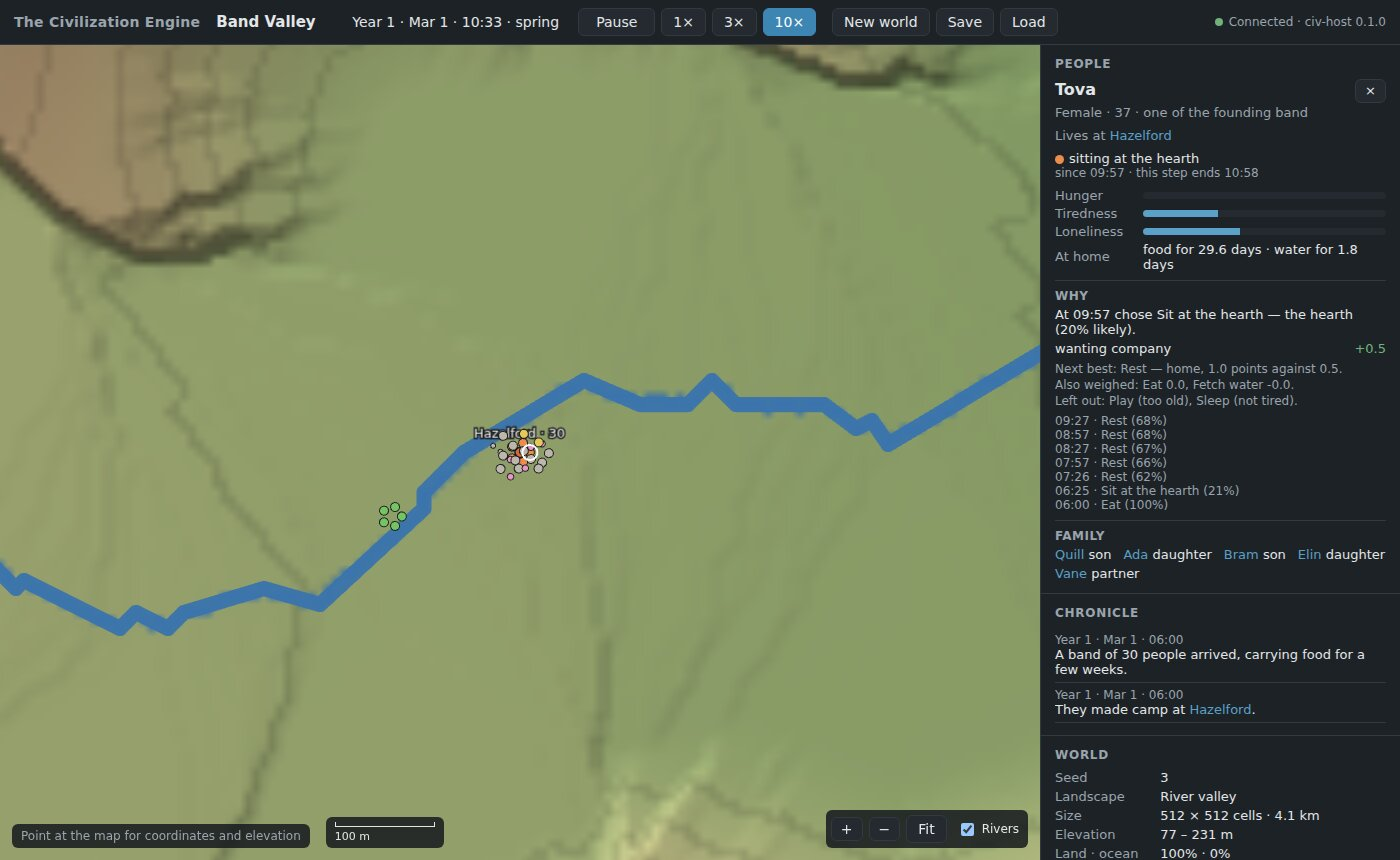
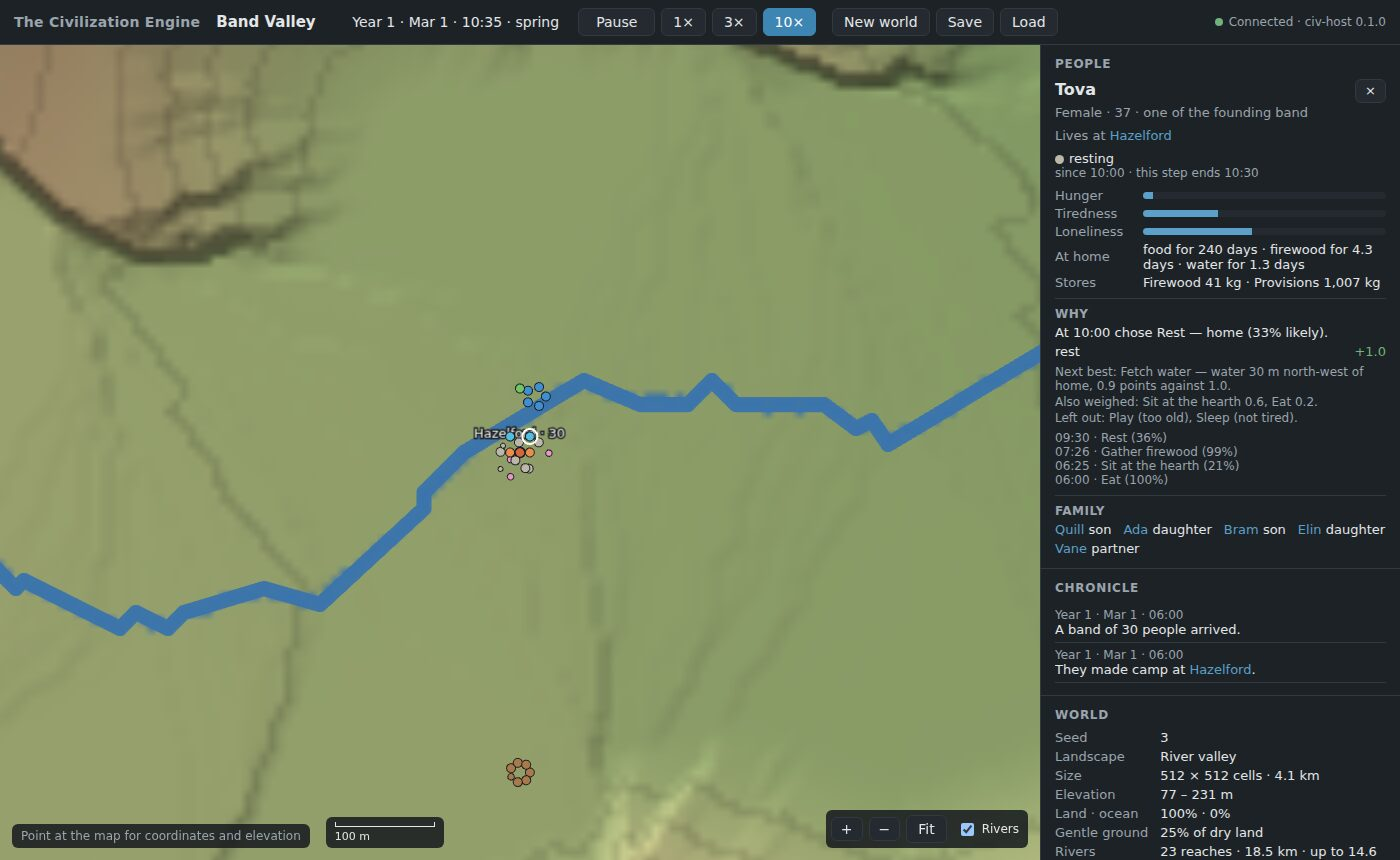
Docs: M1 slice B status, goods and land formats, decisions
- README: slice B in the status, the implemented-and-planned table and
  the limitations (food before farming, no preserving, speed); a new
  inspector screenshot.
- content/README: the `good` kind, the new land resource format with
  plant and animal growth, the new people fields, references to goods.
- Plan §9: goods, wild resources, what people know of places, the
  diminishing value of stores, founding provisions, wire 1.2 and save
  schema 3.

Claude-Session: https://claude.ai/code/session_018V4o69aAxGLDwKk8BHEDch

diff --git a/README.md b/README.md
@@ -23,9 +23,12 @@ The guiding principle is **the engine authors the vocabulary, never the plot**. 
 
 **Milestone M0, Foundations, is implemented.** You can launch the engine with one command and create a world from a seed in the browser. You can pan and zoom its terrain and rivers, and run the clock. Saving, loading, autosave and crash recovery all work, along with a small command line for worlds, saves and content.
 
-**Milestone M1, First settlers, is in progress** ([plan §7](PROJECT_PLAN.md#7-milestones)). Its first slice is implemented: a new world begins with a founding band of 30–50 people in at least six families, who choose where to camp. They sleep, eat, fetch water, gather wild plants, play and sit at the hearth, each choice scored from their needs and sampled, and they walk routed paths over the terrain. The map shows them moving. Click anyone to see what they are doing, their needs, their family and **why** they chose it, with every consideration's weight. The chronicle records the band's arrival.
+**Milestone M1, First settlers, is in progress** ([plan §7](PROJECT_PLAN.md#7-milestones)). Its first two slices are implemented:
 
-**Not yet:** hunting, fishing, wood, fields and grain, huts, births and deaths, marriage, trails and the god tools. These are the remaining M1 slices. Until fishing, hunting and farming exist, a band eats its 30 days of provisions and then cannot gather enough wild plants to feed itself (see the known limitations).
+- **Slice A:** a new world begins with a founding band of 30–50 people in at least six families, who choose where to camp. They sleep, eat, fetch water, play and sit at the hearth, each choice scored from their needs and sampled, and they walk routed paths over the terrain. The map shows them moving. Click anyone to see what they are doing, their needs, their family and **why** they chose it, with every consideration's weight. The chronicle records the band's arrival.
+- **Slice B:** people gather wild plants, hunt, fish and collect firewood, and bring home goods that keep or spoil at their own rates. A kill is shared across the camp. Meat and fish need a fire, so firewood matters. Game, fish and plants grow back on their own clocks. Hunting a valley out takes a season and its recovery takes years. Households share what they learn about places and weigh it against what they would expect. The chronicle notes when a settlement's food runs short and when it recovers.
+
+**Not yet:** fields and grain, huts, births and deaths, marriage, trails and the god tools. These are the remaining M1 slices. Until farming exists, a band's eight months of provisions and its foraging carry it into the first winter, and then it goes hungry (see the known limitations).
 
 ### Implemented and planned
 
@@ -33,13 +36,13 @@ The guiding principle is **the engine authors the vocabulary, never the plot**. 
 | --- | --- | --- |
 | Kernel foundations (`civ-core`) | Implemented | Generational handles and permanent ids, a 365-day calendar, the event-and-cadence scheduler, small seeded RNGs |
 | World generation (`civ-world`) | Implemented: terrain and water | Uplift and stream-power erosion, refinement to 8 m cells, valley floors, lakes from the water balance, river reaches with discharge and width. Climate bands, soils and deposits are planned (M1–M3) |
-| Content (`civ-content`, `content/`) | Implemented: world presets, people, land, names, activities | Strict TOML packs, stable diagnostics, fingerprints; two landscape presets; the early-farmers people profile, the temperate-valley land profile, seven activities. Other primitives arrive with the milestones that need them |
-| Land (`civ-land`) | Implemented: habitats and wild plants | 128 m habitat patches classified from terrain, wild plant stocks that grow, waste and are gathered (no respawn timers), a yearly climate factor, settlements. Game, fish, wood and fields are planned (M1) |
-| People (`civ-agents`) | Implemented: M1 slice A | A founding band in families with ages from a life table; needs in closed form (energy, sleep pressure, company); utility choices with softmax sampling and recorded receipts; routed walking (Tobler's hiking function, A*); households with food and water stores; person records and the chronicle ([ADR-0003](decisions/0003-people-movement-history.md)). Births, deaths, marriage and memory are planned (M1) |
-| Boundary schema (`commons-wire`, `civ-schema`) | Implemented | Frame envelope and FlatBuffers payloads for Rust and TypeScript ([ADR-0001](decisions/0001-boundary-schema.md)) |
-| Saves (`commons-persist`, `civ-sim`) | Implemented | Chunked, checksummed generations; verified on write; refusal, never repair ([ADR-0002](decisions/0002-snapshot-container.md)). Schema 2 adds land and people; M0 saves load as worlds with nobody in them yet |
+| Content (`civ-content`, `content/`) | Implemented: world presets, people, land, names, activities, goods | Strict TOML packs, stable diagnostics, fingerprints; two landscape presets; the early-farmers people profile, the temperate-valley land profile, ten activities, five goods. Other primitives arrive with the milestones that need them |
+| Land (`civ-land`) | Implemented: habitats, wild plants, game, fish, fallen wood | 128 m habitat patches classified from terrain. Plant-like stocks grow seasonally and waste; animals grow logistically toward their habitat's capacity and spread monthly; hunts take whole animals. Gathering slows as a patch empties (no respawn timers). A yearly climate factor, settlements. Fields are planned (M1) |
+| People (`civ-agents`) | Implemented: M1 slices A and B | A founding band in families with ages from a life table; needs in closed form (energy, sleep pressure, company) with a body reserve; utility choices with softmax sampling and recorded receipts; routed walking (Tobler's hiking function, A*). Households keep goods that spoil by half-life, burn firewood by season, eat the most perishable food first and share kills; they remember what places gave and share it within the settlement ([ADR-0003](decisions/0003-people-movement-history.md)). Person records and the chronicle. Births, deaths and marriage are planned (M1) |
+| Boundary schema (`commons-wire`, `civ-schema`) | Implemented | Frame envelope and FlatBuffers payloads for Rust and TypeScript, schema TCE 1.2 ([ADR-0001](decisions/0001-boundary-schema.md)) |
+| Saves (`commons-persist`, `civ-sim`) | Implemented | Chunked, checksummed generations; verified on write; refusal, never repair ([ADR-0002](decisions/0002-snapshot-container.md)). Schema 2 added land and people, schema 3 goods. M0 saves load as worlds with nobody in them yet; slice A saves load with their food as provisions |
 | Host (`civ-host`) | Implemented | Command line and a localhost WebSocket server with autosave and crash recovery |
-| Web observer (`web/`) | Implemented: M0 shell and M1 slice A | Map with terrain, rivers and detail tiles; people moving along their trips; the settlement; an inspector with needs, family and the reasons for each choice; the chronicle; new-world (with band size), save, load and recovery dialogs; time controls; world facts; event log |
+| Web observer (`web/`) | Implemented: M0 shell and M1 slices A and B | Map with terrain, rivers and detail tiles; people moving along their trips; the settlement with its days of food; an inspector with needs, family, the household's stores and the reasons for each choice; the chronicle; new-world (with band size), save, load and recovery dialogs; time controls; world facts; event log |
 | CI | Implemented | A Windows lane (kernel, commons, content, smoke seeds) plus browser tests and schema freshness |
 | Farming, huts, demography, trails, economy, government, services, diplomacy | Planned (M1–M8) | See the [milestones](PROJECT_PLAN.md#7-milestones) |
 | Unreal client (`civ-ffi`, `EngineBridge`) | Planned (M2) | |
@@ -51,8 +54,9 @@ The guiding principle is **the engine authors the vocabulary, never the plot**. 
 - **Small maps.** The large river can miss a small map, and at 2 km and 4 km the coastal preset can be mostly sea. The smoke seeds use 8 km maps.
 - **Performance.** A 16 km world takes about 18 s to generate on a 4-core 2.1 GHz cloud CPU, and its save is about 15 MB. Your machine will differ.
 - **WebGL.** The map needs WebGL. Headless browsers fall back to slow software rendering.
-- **Food (M1 slice A).** Wild plants alone cannot feed a band. A world's whole standing stock in March is about 17 days of a 40-person band's needs. After its 30 days of provisions, the band goes hungry: people gather harder, but nobody dies and body reserves are not yet limited. Hunting, fishing and grain are the next slices.
-- **Simulation speed.** A simulated year of a 40-person band takes about a minute on the 4-core cloud CPU. Most of that is route planning, and a cache keeps it bounded.
+- **Food before farming.** Wild food on a valley map feeds only about a dozen foragers (research 03-06 §2.7), not a settled band of 40. Gathering returns stay in the research ranges (plants about 300–900 kcal per hour in season, fish 200–800, hunting 250–500) until the land near the camp is worked out. The band arrives with eight months of provisions (research 10-01 §2.3), and foraging stretches them into the first winter. After that the band goes hungry: nobody dies yet, and body reserves bottom out at a floor. Farming, in the next slices, is what feeds early farmers.
+- **No preserving.** Fresh meat, fish and plant food spoil within days, and there is no drying or smoking yet, so a summer glut cannot be stored for winter.
+- **Simulation speed.** A simulated year of a 40-person band takes about 30–40 s on the 4-core cloud CPU, and longer when hungry people make more trips. Most of that is route planning, and a cache keeps it bounded.
 
 ## Getting started
 
@@ -86,7 +90,7 @@ Tests, lints and the rules for changing schemas, saves and content are in [AGENT
 
 **These are screenshots of the current build**, unlike the concept art further down.
 
-<p><img src="assets/m1/m1-inspector.jpg" alt="A founding band at their camp by a river; one person is inspected: what she is doing, her needs, the reasons for her last choice, her family, and the chronicle"><br><strong>M1 slice A: a band of 30 at Hazelford, seed 3.</strong> Dots are people coloured by activity; a gathering party walks out along the river. The inspector shows the last decision's considerations, the next-best option and what was ruled out.</p>
+<p><img src="assets/m1/m1-inspector.jpg" alt="A founding band at their camp by a river; one person is inspected: what she is doing, her needs, her household's food, firewood, water and stores, the reasons for her last choice, her family, and the chronicle"><br><strong>M1 slices A and B: a band of 30 at Hazelford, seed 3.</strong> Dots are people coloured by activity; a firewood party works south of the camp. The inspector shows the household's days of food, firewood and water and what is in store, then the last decision's considerations, the next-best option and what was ruled out.</p>
 
 The M0 screenshots below show the terrain alone. Recordings of the end-to-end tests are in [`assets/m0/m0-demo.webm`](assets/m0/m0-demo.webm), which generates, explores, saves and loads a world, and [`assets/m0/m0-recovery.webm`](assets/m0/m0-recovery.webm), which recovers after the host is killed.
 

diff --git a/content/README.md b/content/README.md
@@ -38,7 +38,7 @@ CI runs the validator. Diagnostics have stable codes:
 | E2003 | An id's kind segment does not match the file's `kind` |
 | E2004 | The file's path does not match its id |
 | E2005 | Two definitions share an id |
-| E2006 | A reference names something that is not defined (a people profile's name list, an activity's land resource) |
+| E2006 | A reference names something that is not defined (a people profile's name list or provisions good, an activity's land resource, a resource's good) |
 | E3001 | A value is out of its allowed range |
 | E3002 | Unknown or missing `kind` |
 | E3003 | Not exactly one world-generation preset has `default = true` |
@@ -50,8 +50,10 @@ record the semantic one, so reformatting a file, reordering keys, writing `3` fo
 comment does not mark saves as "content changed"; changing a value does.
 
 A world saved with other content still loads and runs by the content loaded now. Saves refer to
-activities, habitats and land resources by id: a person whose activity is gone decides again, a
-habitat that is gone becomes the last (catch-all) habitat, and a new resource starts at equilibrium.
+activities, habitats, land resources and goods by id: a person whose activity is gone decides
+again, a habitat that is gone becomes the last (catch-all) habitat, a good that is gone is dropped
+from stores and loads, and a new resource starts at equilibrium. So does a resource whose `good` or
+`unit_kg` changed, since its saved stocks may count something else.
 
 ## Kinds (M0)
 
@@ -103,7 +105,7 @@ are not calibrations. An arid closed-basin preset is planned for M3, once climat
 
 ## Kinds (M1)
 
-M1 adds four kinds (kernel content API 2). Every field is required, and every number in the
+M1 adds five kinds (kernel content API 3). Every field is required, and every number in the
 shipped files carries its research source or says it is a tuning starting point.
 
 ### `people`
@@ -120,17 +122,21 @@ How a world's people live. Exactly one profile. `names` is the id of a name list
 | | `mass_by_age` | `[[age, male kg, female kg], …]`. |
 | | `walk_par`, `idle_par` | Physical activity ratios while walking and between activities. |
 | | `satiety_hours`, `hunger_ramp_hours`, `deficit_unit_kcal`, `max_surplus_kcal`, `meal_minutes` | How long a meal keeps someone full, how hunger rises after, how an energy deficit adds to hunger, the largest banked surplus, a meal's length. |
+| | `reserve_kcal_per_kg` | What the body can draw on in a shortage, per kilogram of body mass: the floor of the energy balance. |
 | `sleep` | `tau_awake_h`, `tau_asleep_h`, `wake_pressure` | Two-process sleep pressure: rise awake, fall asleep, the level a sleeper wakes at. Sleep is not an option below it. |
 | | `min_hours`, `max_hours`, `nap_min_minutes`, `nap_max_minutes` | A night's sleep and a daytime nap. |
 | | `day_factor`, `bedtime_after_sunset_hours` | Weight of sleep pressure by day, and when the evening's sleep gate opens. |
 | `social` | `tau_h`, `quality_per_companion`, `household_quality` | Relatedness eases toward the quality of present company. |
 | `household` | `water_l_per_person_day`, `carry_water_l`, `water_target_days` | Water use, what one trip carries, the store people aim for. |
-| | `food_target_days`, `carry_food_kcal`, `daily_kcal_per_person` | The food store people aim for, what one person carries home, average need. |
+| | `food_target_days`, `carry_kg`, `daily_kcal_per_person` | The food store people aim for, the load one person carries home, average need. |
+| | `fuel_kg_per_person_day`, `fuel_target_days` | Firewood burned per person per day by month (January first), and the store people aim for. |
+| | `short_food_days`, `recovered_food_days` | The chronicle notes a settlement's shortage below the first and its end above the second. |
 | `decision` | `temperature_sd_fraction`, `min_temperature` | Softmax temperature: a fraction of the spread of the options' scores, with a floor. |
-| | `w_*`, `trip_half_worth_days` | Points per unit of each consideration (hunger, sleep, company, food and water shortage, useful work, walking, effort, darkness, rest, play); a gathering trip bringing `trip_half_worth_days` of household food is worth half a very large haul. |
+| | `w_*`, `trip_half_worth_days` | Points per unit of each consideration (hunger, sleep, company, food, firewood and water shortage, useful work, walking, effort, darkness, rest, play); a trip bringing `trip_half_worth_days` of the household's need is worth half a very large haul. Beyond any shortage, more of a good is worth less the more of it is in store. |
 | `band` | `default_size`, `min_size`, `max_size`, `min_families` | The founding band the new-world dialog offers. `min_size` is at least twice `min_families`. |
 | | `camp_candidates`, `site_radius_m`, `site_max_slope`, `site_w_*`, `site_flood_hand_m` | How the band scores sampled camp sites: wild food within the radius, distance to fresh water, slope, flood risk. |
-| | `provisions_days`, `elder_chance`, `young_adult_chance`, `birth_spacing_months` | What families bring and who is in them. |
+| | `provisions_days`, `provisions_good` | The food each family brings, in days of its needs, and the good (a food) it is carried as. |
+| | `elder_chance`, `young_adult_chance`, `birth_spacing_months` | Who is in the families. |
 | `mortality` | `a`, `b`, `c`, `d`, `e` | Siler hazard `A·e^(−Bx) + C + D·e^(Ex)` per year (ages of founders now; deaths later in M1). |
 
 ### `land`
@@ -144,7 +150,26 @@ How land is classified and what grows wild. Exactly one profile.
 | `richness_min`, `richness_max`, `richness_feature_m` | Patch-to-patch variation of productivity and its spatial scale. |
 | `climate_cv`, `climate_autocorrelation` | Year-to-year variation of production. |
 | `[[habitat]]` | `id`, `name`, `arable`, and optional `min_water_fraction`, `max_median_hand_m`, `max_mean_slope`. The first habitat whose conditions a patch meets is its habitat; the last must have none. |
-| `[[resource]]` | `id`, `name`, `unit`; `production_per_ha_yr` (one figure per habitat, in habitat order); `loss_per_day`; `season` (twelve monthly weights); `max_rate_per_hour` and `half_rate_stock_per_ha` (gathering slows as the stock falls). Stocks grow and waste daily; nothing respawns. |
+| `[[resource]]` | `id`, `name`; `good` (the good a harvest yields) and `unit_kg` (its kilograms per unit of stock: 1 for stocks in kilograms, a carcass's meat for stocks in animals); `discrete` (harvests are whole units drawn from the expected count); `in_water` (lives in a patch's water, not its land); `range_patches` (a trip works a block of `2·range + 1` patches a side); `max_rate_per_hour` and `half_rate_stock_per_ha` (gathering slows as the stock falls). Then exactly one growth table. |
+| `[resource.plant]` | `production_per_ha_yr` (one figure per habitat, in habitat order), `loss_per_day`, `season` (twelve monthly weights): a seasonal production each day, a share of the standing stock lost each day. |
+| `[resource.animal]` | `capacity_per_ha` (per habitat), `growth_per_year`, `spread_per_month`: logistic growth toward the habitat's capacity, and a monthly spread between neighbouring patches toward an even share of capacity. |
+
+Stocks change daily; nothing respawns. What people learn about a place fades over the time its
+resource takes to renew: `1 / loss_per_day` days for plants, `365 / growth_per_year` for animals.
+
+### `good`
+
+Something people carry home and keep.
+
+| Field | Meaning |
+|---|---|
+| `purpose` | `food` or `fuel`. |
+| `kcal_per_kg` | Food energy; 0 for fuel. |
+| `half_life_days` | Days for half a stored amount to spoil; 0 keeps. Fuel must keep. |
+| `cooked` | Food that needs a fire: it is not eaten while the household has no firewood. Cooking adds no energy (research 05-02 §1.1: it adds water, not calories). |
+| `shared` | When brought home it is shared among every household of the settlement, by members. |
+
+People eat the most perishable food first.
 
 ### `names`
 
@@ -159,7 +184,7 @@ decided by people at run time.
 | Field | Meaning |
 |---|---|
 | `behavior` | One of `sleep`, `eat`, `fetch_water`, `gather`, `socialize`, `rest`, `play`. |
-| `resource` | For `gather` only: the land resource gathered. |
+| `resource` | For `gather` only: the land resource gathered (hunting, fishing and collecting firewood are gathering too). |
 | `name`, `doing` | "Gather plants"; "gathering wild plants" (what the inspector says). |
 | `par` | Physical activity ratio of the work (1–10). |
 | `min_age_years`, `max_age_years` | Who does it. |
@@ -168,6 +193,6 @@ decided by people at run time.
 
 ## Planned kinds
 
-Goods and recipes, technologies (each only with its content footprint), building programs and
+Crops and recipes, technologies (each only with its content footprint), building programs and
 style primitives, offices and policies, service capability ladders, all as the milestones in the
 plan introduce them (§5, §7).

diff --git a/PROJECT_PLAN.md b/PROJECT_PLAN.md
@@ -1275,3 +1275,9 @@ One line each. Don't re-litigate without a reason written next to the entry.
 - **Gathering worth (2026-10-03):** a gathering trip's value saturates with what it brings (half at a quarter of a household-day of food), and a hungry person with nothing to eat at home values it by their hunger. Before this, people rested and played while their stores were empty.
 - **Smoke seeds with people (2026-10-03):** the smoke run lives the founding band's first 30 days (settled, never stuck, water at home, homes on walkable ground) instead of 50 years of an empty clock; checks over years arrive with births and deaths.
 - **Wire 1.1 and save schema 2 (2026-10-03):** people, settlements, trips, persons and the chronicle on the boundary (additive); land and people sections in saves, with M0 saves migrated as worlds with nobody in them yet.
+- **Goods (2026-10-03):** households keep goods in kilograms, each with its own half-life; firewood burns by an authored seasonal rate; the most perishable food is eaten first; food marked `cooked` needs firewood (cooking adds no energy, research 05-02 §1.1); goods marked `shared` (meat) are split among a settlement's households. Fuel must keep, so stores settle exactly for any split of time.
+- **Wild resources (2026-10-03):** a land resource grows as a plant (seasonal production, daily loss) or as animals (logistic growth toward habitat capacity, monthly spread toward an even share of capacity). Water resources live in a patch's water area. Hunts take whole animals drawn from the expected count. Gathering trips work aligned, non-overlapping blocks of patches, so worked land is never mistaken for fresh land.
+- **What people know of places (2026-10-03):** a settlement's households share what each trip found. The expected return of a place pools its block's equilibrium stock and draws it down over the trip; what was seen counts against that expectation as a gamma prior with one unit of the resource's worth of evidence, fading over the time the resource takes to renew. One empty hunt says little; one stripped patch of plants says a lot.
+- **Diminishing value of stores (2026-10-03):** beyond any shortage, a haul of a good is worth `target / (target + stored)` of its worth, counting only that good, so firewood is not piled up without end while fresh food is still gathered while provisions last.
+- **Founding provisions (2026-10-03):** the early-farmers band carries 240 days of provisions: time to the first dependable harvest plus one to three months (research 10-01 §2.3; 05-06 §5.4 tests 6–12 months). With 30 days, the band starved by May. Wild food on a valley map feeds only about a dozen foragers (research 03-06 §2.7), so farming, not foraging, has to carry the band through its first winter.
+- **Wire 1.2 and save schema 3 (2026-10-03):** goods in Welcome, stores and loads in PersonInfo, food days and shortage in SettlementBrief (additive). Saves keep stores and loads by good id and record each resource's good and unit; a resource whose good or unit changed restarts at equilibrium. Schema-2 saves load with household and carried food as provisions, land at equilibrium and patch memory forgotten.
